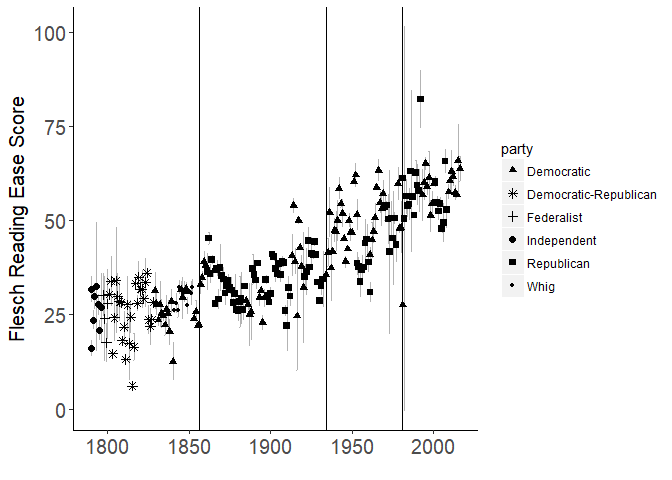
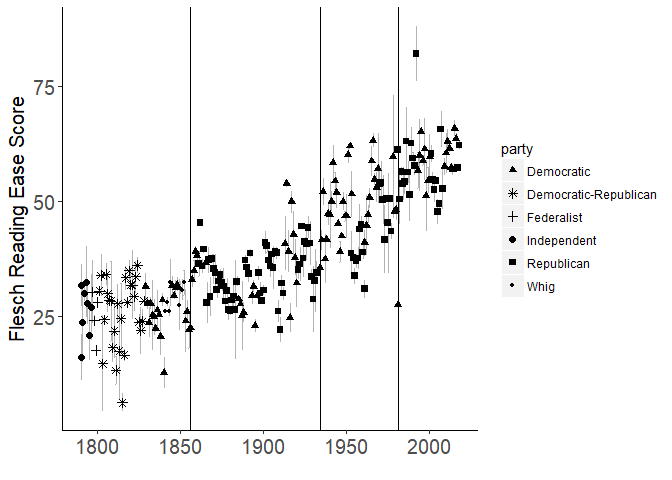
updated to include Trump

diff --git a/vignette.md b/vignette.md
@@ -21,35 +21,33 @@ devtools::install_github("kbenoit/sophistication")
 
 ``` r
 library(quanteda)
-## Warning: package 'quanteda' was built under R version 3.4.3
-## quanteda version 0.99.22
-## Using 7 of 8 threads for parallel computing
+## Package version: 1.1.1
+## Parallel computing: 2 of 8 threads used.
+## See https://quanteda.io for tutorials and examples.
 ## 
 ## Attaching package: 'quanteda'
 ## The following object is masked from 'package:utils':
 ## 
 ##     View
 library(sophistication)
-## Warning: replacing previous import 'quanteda::coef' by 'stats::coef' when
-## loading 'sophistication'
-## sophistication version 0.57
+## sophistication version 0.65
 ## Dropbox folder location set to: C:/Users/kevin/Dropbox/Benoit_Spirling_Readability/
 library(stringr)
+library(quanteda.corpora)
 ## compute readability and bootstrap the sentences
 set.seed(20170308)
-results <- bootstrap_readability(data_corpus_SOTU, n = 2, measure = "Flesch", verbose = FALSE)
+data(data_corpus_sotu, package = "quanteda.corpora")
+
+results <- bootstrap_readability(data_corpus_sotu, n = 2, measure = "Flesch", verbose = FALSE)
 ## 1
 ##  2
 bs_sd <- results$bs_sd[,"Flesch"]
 stat <- results$original[,"Flesch"]
-year <- lubridate::year(docvars(data_corpus_SOTU, "Date"))
+year <- lubridate::year(docvars(data_corpus_sotu, "Date"))
 ## calculate statistics for SOTU
 library(trend)
-## Warning: package 'trend' was built under R version 3.4.3
 library(strucchange)
-## Warning: package 'strucchange' was built under R version 3.4.3
 ## Loading required package: zoo
-## Warning: package 'zoo' was built under R version 3.4.3
 ## 
 ## Attaching package: 'zoo'
 ## 
@@ -58,17 +56,16 @@ library(strucchange)
 ##     as.Date, as.Date.numeric
 ## 
 ## Loading required package: sandwich
-## Warning: package 'sandwich' was built under R version 3.4.3
 ## 
 ## Attaching package: 'strucchange'
 ## 
 ## The following object is masked from 'package:stringr':
 ## 
 ##     boundary
-sotu_mean <- mean(stat)
-sotu_var <- var(stat)
-sotu_cs_test <- cs.test(stat)
-sotu_ts <- as.ts(stat)
+sotu_mean <- mean(stat$Flesch)
+sotu_var <- var(stat$Flesch)
+sotu_cs_test <- cs.test(stat$Flesch)
+sotu_ts <- as.ts(stat$Flesch)
 sotu_breaks <- breakpoints(sotu_ts ~ 1 )
 summary(sotu_breaks)
 ## 
@@ -96,14 +93,14 @@ summary(sotu_breaks)
 ## Fit:
 ##                                        
 ## m   0     1     2     3     4     5    
-## RSS 39231 14644 11505  9704  9249  9215
-## BIC  1846  1630  1585  1557  1557  1567
+## RSS 40144 14775 11547  9719  9264  9230
+## BIC  1865  1644  1598  1569  1568  1578
 
 
 
 
 #3 breakpoints best fit the data
-fm0 <- lm(stat ~ breakfactor(sotu_breaks, breaks = 3))
+fm0 <- lm(stat$Flesch ~ breakfactor(sotu_breaks, breaks = 3))
 
 
 
@@ -115,8 +112,7 @@ year_breaks <- year[breakdates(sotu_breaks)]
 ## plot the trend
 require(ggplot2)
 ## Loading required package: ggplot2
-## Warning: package 'ggplot2' was built under R version 3.4.2
-p <- ggplot(data = docvars(data_corpus_SOTU),
+p <- ggplot(data = docvars(data_corpus_sotu),
             aes(x = year, y = stat)) + #, group = delivery)) +
   theme(panel.grid.major = element_blank(),
         panel.grid.minor = element_blank(),
@@ -134,6 +130,7 @@ p <- ggplot(data = docvars(data_corpus_SOTU),
         axis.text.x = element_text(size = 15),
         axis.text.y = element_text(size = 15), axis.title.y = element_text(size = 15))
 print(p)
+## Don't know how to automatically pick scale for object of type data.frame. Defaulting to continuous.
 ```
 
 ![](vignette_files/figure-markdown_github/unnamed-chunk-3-1.png)
@@ -154,7 +151,7 @@ levs[2:length(levs)] <- lapply(levs[2:length(levs)], function(x) {
 })
 levels(period) <- sapply(levs, paste, collapse = "-")
 
-ggplot(aes(y = stat, x = period, fill = docvars(data_corpus_SOTU, "delivery")),
+ggplot(aes(y = stat$Flesch, x = period, fill = docvars(data_corpus_sotu, "delivery")),
        data = NULL) +
     geom_boxplot() +
     scale_fill_grey("", start = .6, end = .9) +
@@ -179,7 +176,7 @@ ggplot(aes(y = stat, x = period, fill = docvars(data_corpus_SOTU, "delivery")),
 library(sophistication)
 library(quanteda)
 library(stringi)
-## Warning: package 'stringi' was built under R version 3.4.2
+## Warning: package 'stringi' was built under R version 3.4.4
 library(magrittr)
 library(dplyr)
 ## 
@@ -193,12 +190,12 @@ library(dplyr)
 ## 
 ##     intersect, setdiff, setequal, union
 
-data("data_corpus_SOTU")
+data("data_corpus_sotu")
 
 
-SOTU_stat <- textstat_readability(data_corpus_SOTU, measure = c("Flesch", "meanSentenceLength", "meanWordSyllables"))
+SOTU_stat <- textstat_readability(data_corpus_sotu, measure = c("Flesch", "meanSentenceLength", "meanWordSyllables"))
 
-SOTU_year <- lubridate::year(docvars(data_corpus_SOTU, "Date"))
+SOTU_year <- lubridate::year(docvars(data_corpus_sotu, "Date"))
 SOTU_fre_df <- data.frame("year" = SOTU_year, "SOTU_stat" = SOTU_stat$Flesch)
 SOTU_fre_sent <- data.frame("year" = SOTU_year, "SOTU_stat" = SOTU_stat$meanSentenceLength)
 SOTU_fre_word <- data.frame("year" = SOTU_year, "SOTU_stat" = SOTU_stat$meanWordSyllables)
@@ -302,7 +299,6 @@ balanced_scotus_fre_word<-scotus_fre_word[indices,]
 
 require(reshape2)
 ## Loading required package: reshape2
-## Warning: package 'reshape2' was built under R version 3.4.3
 
 
 ###Congress
@@ -480,12 +476,12 @@ print(p)
 
 
 
-data("data_corpus_SOTU")
+data("data_corpus_sotu")
 
 
-SOTU_stat <- textstat_readability(data_corpus_SOTU, measure = c("Flesch", "meanSentenceLength", "meanWordSyllables"))
+SOTU_stat <- textstat_readability(data_corpus_sotu, measure = c("Flesch", "meanSentenceLength", "meanWordSyllables"))
 
-SOTU_year <- lubridate::year(docvars(data_corpus_SOTU, "Date"))
+SOTU_year <- lubridate::year(docvars(data_corpus_sotu, "Date"))
 SOTU_fre_df <- data.frame("year" = SOTU_year, "SOTU_stat" = SOTU_stat$Flesch)
 SOTU_fre_sent <- data.frame("year" = SOTU_year, "SOTU_stat" = SOTU_stat$meanSentenceLength)
 SOTU_fre_word <- data.frame("year" = SOTU_year, "SOTU_stat" = SOTU_stat$meanWordSyllables)
